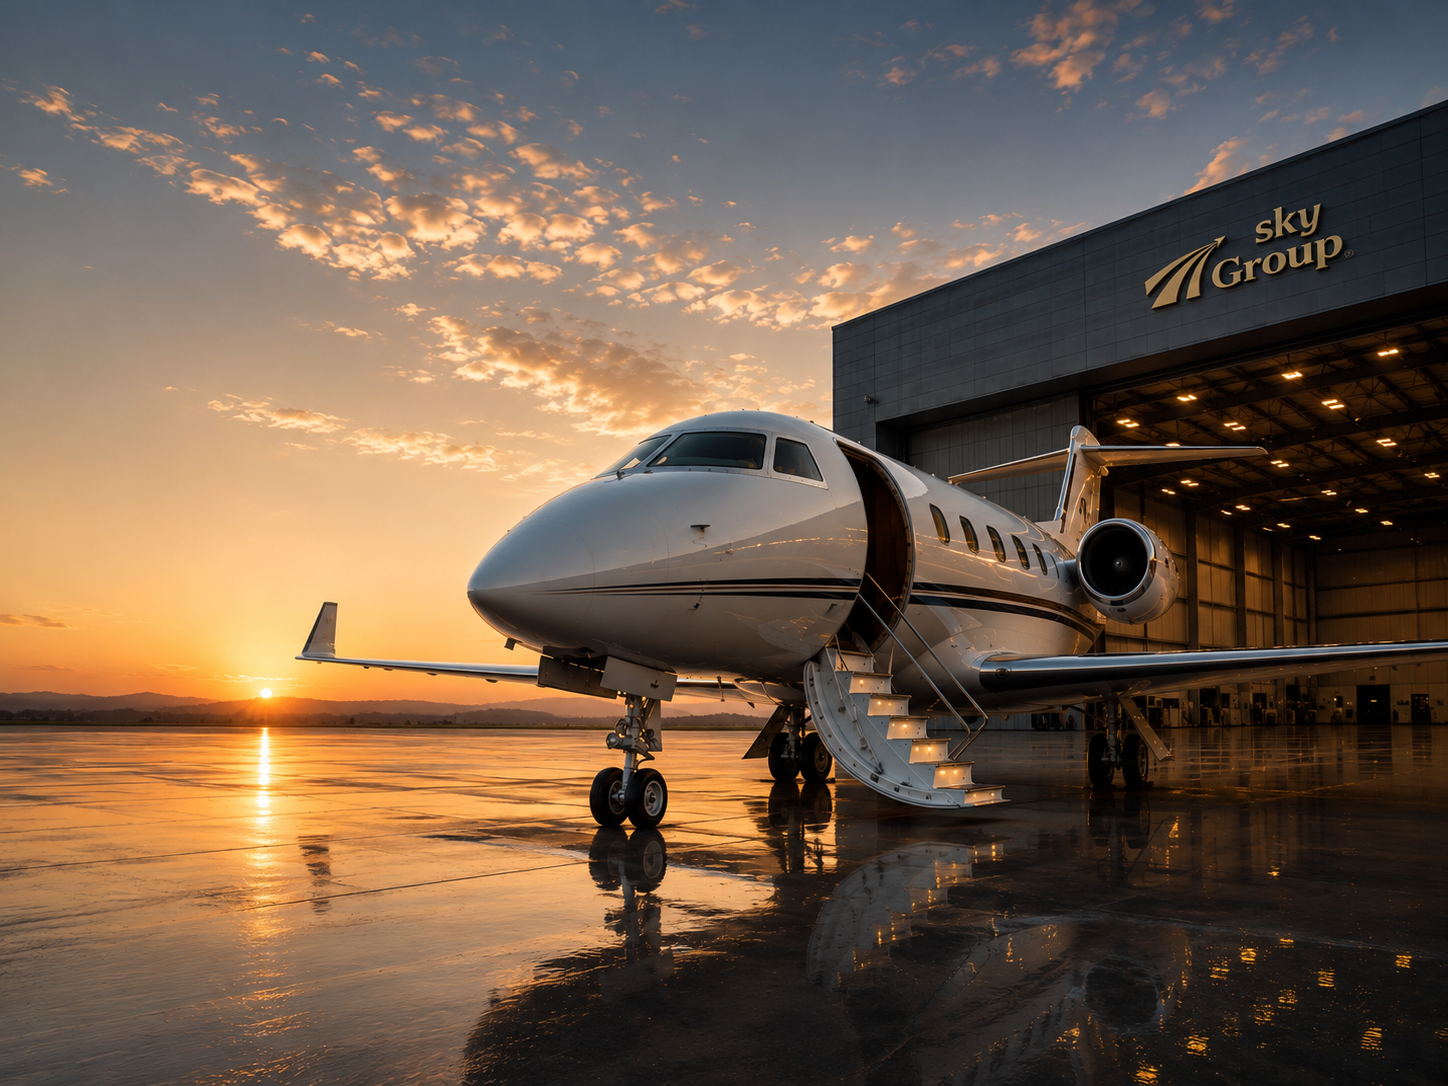
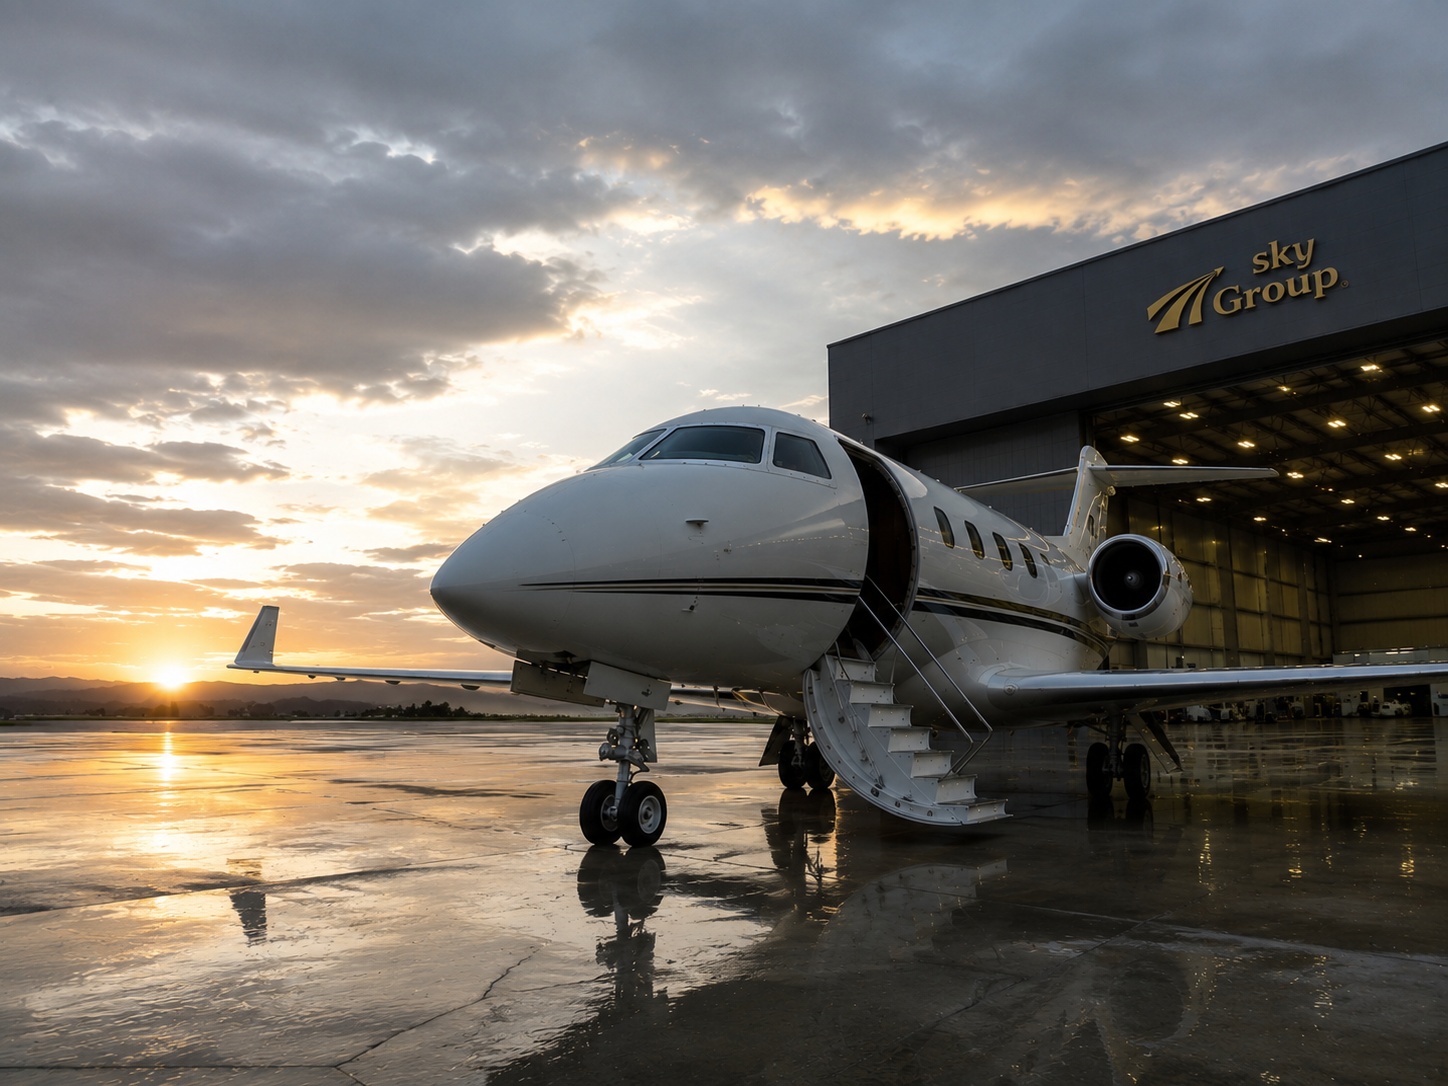
10AGO

diff --git a/src/components/FleetLanding.vue b/src/components/FleetLanding.vue
@@ -1987,13 +1987,20 @@ onBeforeUnmount(() => stopAutoSlide());
 
 .modal-media {
   position: relative;
-  background: var(--fleet-navy);
+  background: transparent;
+  display: flex;
+  align-items: center;
+  justify-content: center;
+  padding: 24px;
 }
 
 .modal-image {
-  width: 100%;
-  height: 100%;
-  object-fit: cover;
+  width: auto;
+  height: auto;
+  max-width: 100%;
+  max-height: min(70vh, 560px);
+  object-fit: contain;
+  object-position: center;
 }
 
 .modal-controls {
@@ -2291,6 +2298,7 @@ onBeforeUnmount(() => stopAutoSlide());
 
   .modal-media {
     min-height: 280px;
+    padding: 18px;
   }
 
   .modal-info {
